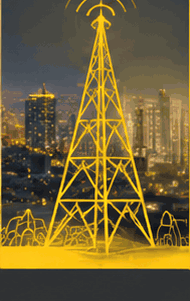
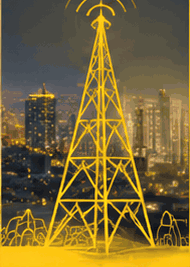
projectreports: dashboard filter panel background
The tower artwork had a dark band under it and sat as a hard-edged picture
at the bottom of a panel stretched to the full page height. The image is
trimmed, the panel is only as tall as its filters (still sticky), and the
artwork fades into the panel's gradient.

Claude-Session: https://claude.ai/code/session_01GzBdQ8NQL3QGXtYuAdQuPQ

diff --git a/marketplace/projectreports/public/css/dashboard.css b/marketplace/projectreports/public/css/dashboard.css
@@ -77,11 +77,18 @@
 /* ---------- slicers ---------- */
 .db-slicers {
   border-radius: var(--radius); box-shadow: var(--shadow);
-  padding: 16px; position: sticky; top: 8px; color: #fff; align-self: stretch;
-  background:
-    url("../img/bg-tower.png") no-repeat left bottom / 100% auto,
-    linear-gradient(180deg, #2b3446 0%, #1b2230 100%);
-  padding-bottom: 300px; /* keeps the controls above the tower artwork */
+  padding: 16px 16px 240px; /* room for the tower artwork under the controls */
+  position: sticky; top: 8px; color: #fff;
+  align-self: start; /* as tall as its content, so it never stretches into an empty column */
+  overflow: hidden; isolation: isolate;
+  background: linear-gradient(180deg, #2b3446 0%, #1f2737 55%, #1b2230 100%);
+}
+/* Tower artwork at the bottom, fading into the panel instead of a hard-edged picture */
+.db-slicers::after {
+  content: ""; position: absolute; inset: auto 0 0 0; height: 300px; z-index: -1; pointer-events: none;
+  background: url("../img/bg-tower.png") no-repeat center bottom / cover;
+  -webkit-mask-image: linear-gradient(180deg, transparent 0%, rgba(0, 0, 0, .55) 35%, #000 70%);
+  mask-image: linear-gradient(180deg, transparent 0%, rgba(0, 0, 0, .55) 35%, #000 70%);
 }
 .db-sl-head {
   font-weight: 800; font-size: 15px; margin-bottom: 14px; padding-bottom: 10px; border-bottom: 1px solid rgba(255, 255, 255, .14); color: #fff;
